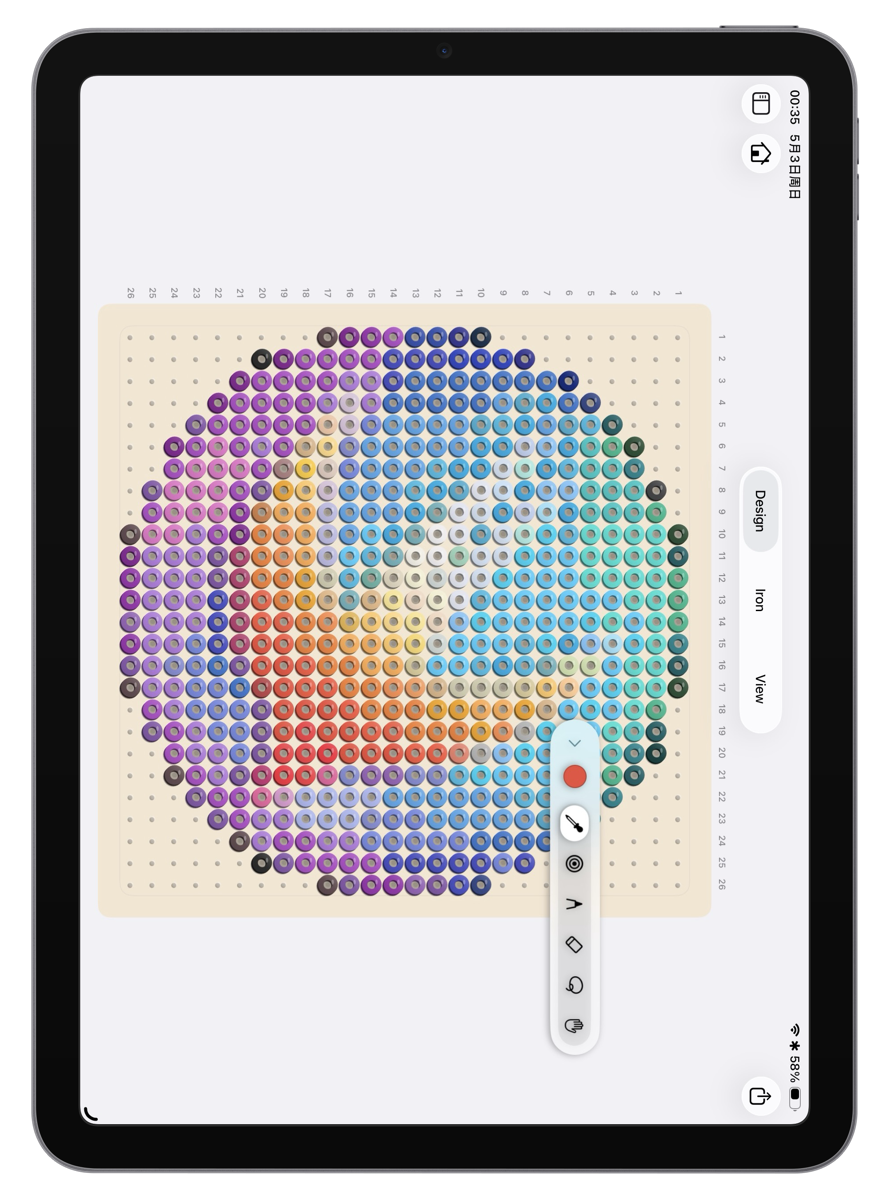
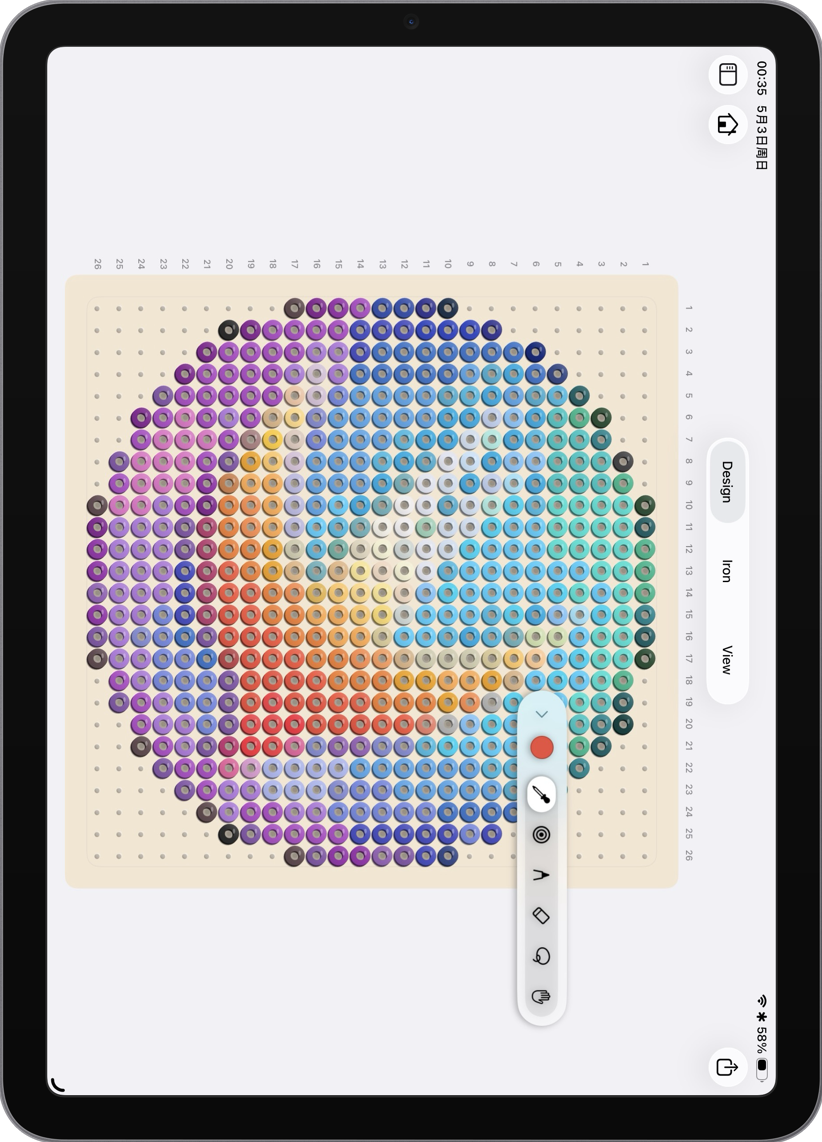
Fix menu bar layout by adding desktop flex rules; crop iPad bezel and grey frame from the hero preview image

diff --git a/styles.css b/styles.css
@@ -211,6 +211,12 @@ nav a.active, nav a:hover {
   color: var(--text-color);
 }
 
+.nav-actions {
+  display: flex;
+  align-items: center;
+  gap: 1.5rem;
+}
+
 /* Hero Section */
 .hero {
   display: grid;